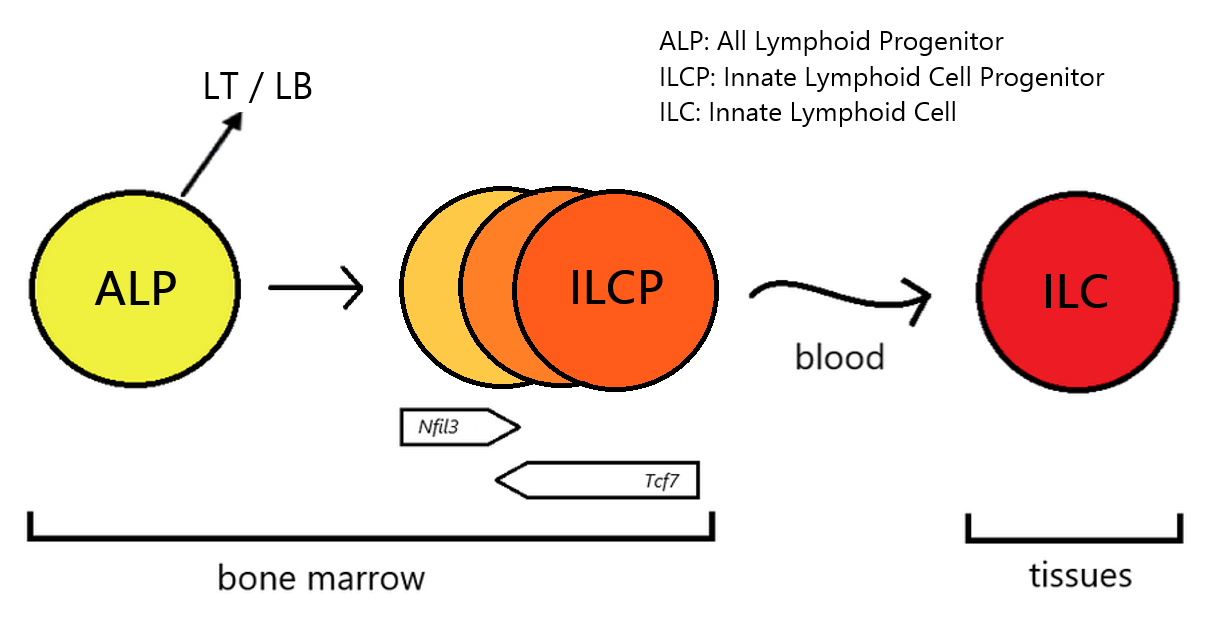
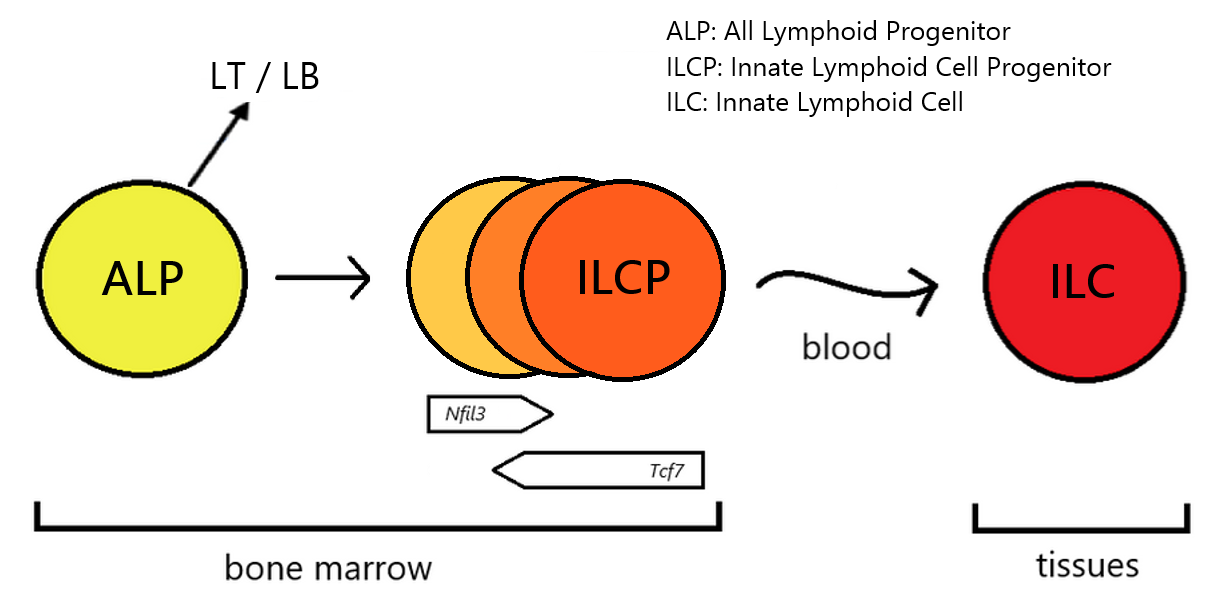
Update README.md

diff --git a/README.md b/README.md
@@ -1,6 +1,6 @@
 ![header](dev_ILC.png)
 
-*Nfil3* in the development of ILCs in mice (adapted from [Das et al. 2026](https://doi.org/10.1038/s41590-025-02414-1))
+*Nfil3* during the overview of mouse ILC development (adapted from [Das et al. 2026](https://doi.org/10.1038/s41590-025-02414-1))
 
 ---
 
